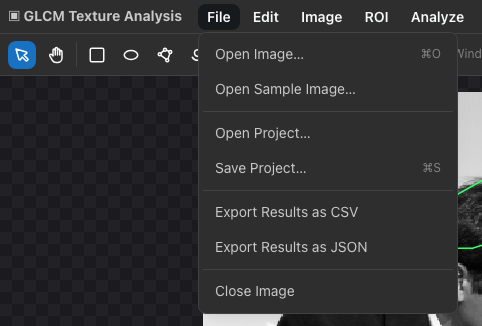
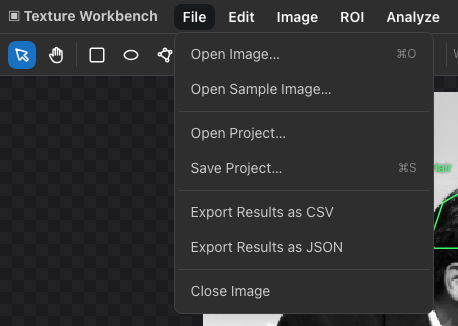
Rename the project to Texture Workbench
The repository is now markccchiang/texture-workbench. The app's title bar,
About dialog and browser tab, the OpenAPI title, the README, the Sphinx site
and the architecture diagram say Texture Workbench, and the README and About
text describe every feature family. The Docker image, the root npm package and
the CMake project are named texture-workbench; screenshots are regenerated.

Internal names stay: the glcm namespace and glcm_core, the @glcm packages and
GLCM_* variables, the Compose service and glcm-data volume, and the local data
folder ~/.glcm-texture-analysis, so stored images and results are still found.

Claude-Session: https://claude.ai/code/session_01PbGtFUgumc4WCXmBcb7ysQ

diff --git a/web/src/components/Modals.tsx b/web/src/components/Modals.tsx
@@ -301,7 +301,10 @@ function AboutContent() {
   });
   return (
     <Stack gap="xs">
-      <Text size="sm">Haralick GLCM texture features for regions of interest in grayscale images.</Text>
+      <Text size="sm">
+        Texture features of regions of interest in grayscale images: co-occurrence (Haralick) features, first-order statistics,
+        GLRLM, GLSZM, NGTDM and LBP.
+      </Text>
       <InfoRows rows={[['Core version', health.data?.coreVersion ?? '…']]} />
       <Text size="xs" c="dimmed">
         Feature equations and references are in the Sphinx documentation (doc/).
@@ -463,7 +466,7 @@ const TITLES: Record<ModalName, string> = {
   imageInfo: 'Image Info',
   preferences: 'Preferences',
   shortcuts: 'Keyboard Shortcuts',
-  about: 'About GLCM Texture Analysis',
+  about: 'About Texture Workbench',
   samples: 'Open Sample Image',
   saveProject: 'Save Project',
   exportRoiImages: 'Export ROI Images',

diff --git a/server/src/config.ts b/server/src/config.ts
@@ -116,6 +116,7 @@ export function loadConfig(env: NodeJS.ProcessEnv = process.env): ServerConfig {
   const host = env.GLCM_HOST || DEFAULT_CONFIG.host;
   const mode = serverMode({ host });
   const defaults: Defaults = mode === 'server' ? { ...DEFAULT_CONFIG, ...SERVER_MODE_DEFAULTS } : DEFAULT_CONFIG;
+  // The local folder keeps the project's former name, so images and results stored before the rename are still found
   const defaultDataDir = mode === 'server' ? '/data' : path.join(os.homedir(), '.glcm-texture-analysis');
 
   return {

diff --git a/server/src/app.ts b/server/src/app.ts
@@ -58,8 +58,8 @@ export async function buildApp(config: ServerConfig, options: BuildAppOptions = 
     openapi: {
       openapi: '3.1.0',
       info: {
-        title: 'GLCM Texture Analysis API',
-        description: 'HTTP API of the GLCM texture analysis server (doc/ui-design-plan.md, section 8.5).',
+        title: 'Texture Workbench API',
+        description: 'HTTP API of the Texture Workbench server (doc/ui-design-plan.md, section 8.5).',
         version: native.coreVersion(),
       },
       components: {

diff --git a/web/src/components/MenuBar.tsx b/web/src/components/MenuBar.tsx
@@ -69,7 +69,7 @@ export function MenuBar() {
   return (
     <nav className="menu-bar" aria-label="Main menu">
       <Text fw={700} size="sm" mr="sm">
-        ▣ GLCM Texture Analysis
+        ▣ Texture Workbench
       </Text>
 
       <TopMenu label="File">

diff --git a/web/index.html b/web/index.html
@@ -3,7 +3,7 @@
   <head>
     <meta charset="UTF-8" />
     <meta name="viewport" content="width=device-width, initial-scale=1.0" />
-    <title>GLCM Texture Analysis</title>
+    <title>Texture Workbench</title>
   </head>
   <body>
     <div id="root"></div>

diff --git a/doc/conf.py b/doc/conf.py
@@ -1,7 +1,7 @@
-# Sphinx configuration for the GLCM Texture Analysis documentation.
+# Sphinx configuration for the Texture Workbench documentation.
 # Build with `make html` in this folder (see requirements.txt).
 
-project = "GLCM Texture Analysis"
+project = "Texture Workbench"
 author = "Cheng-Chin Chiang"
 copyright = "2026, Cheng-Chin Chiang"
 

diff --git a/README.md b/README.md
@@ -1,11 +1,11 @@
-# GLCM Texture Analysis
+# Texture Workbench
 
-Computes Haralick texture features from the Gray Level Co-occurrence Matrix (GLCM) of regions of interest (ROIs) in grayscale images.
+Measures texture features of regions of interest (ROIs) in grayscale images: Haralick features from the Gray Level Co-occurrence Matrix (GLCM), first-order statistics, and run length (GLRLM), size zone (GLSZM), neighbourhood gray tone difference (NGTDM) and local binary pattern (LBP) features.
 
-Open an 8- or 16-bit image in the browser, draw rectangle, ellipse, polygon or freehand ROIs, choose the features and GLCM settings (gray levels, quantization, distances, directions), and measure. Results appear in a table, per direction and aggregated, optionally with an age-based score.
+Open an 8- or 16-bit image in the browser, draw rectangle, ellipse, polygon or freehand ROIs, choose the features and analysis settings (gray levels, quantization, distances, directions), and measure, one image or a batch. Results appear in a table and as plots, per direction and aggregated, optionally with an age-based score.
 
 <p align="center">
-  <img src="doc/user/images/app-window.png" alt="The GLCM Texture Analysis web app: the sample image with four ROIs (Sky, Coat, Grass, Hair) on the canvas, the ROI Manager with their pixel counts, the Analysis Settings panel, and the Results table with texture features per direction." width="900">
+  <img src="doc/user/images/app-window.png" alt="The Texture Workbench web app: the sample image with four ROIs (Sky, Coat, Grass, Hair) on the canvas, the ROI Manager with their pixel counts, the Analysis Settings panel, and the Results table with texture features per direction." width="900">
 </p>
 
 The User guide of the documentation (`doc/user/`) explains every part of the window.
@@ -250,7 +250,7 @@ To rebuild later, activate the environment again with `source .venv/bin/activate
 
 ## License
 
-GLCM Texture Analysis is free and open-source software, released under the [MIT License](LICENSE). You may use, copy, modify and distribute it, including in commercial and closed-source software, as long as the copyright notice and the license text are kept.
+Texture Workbench is free and open-source software, released under the [MIT License](LICENSE). You may use, copy, modify and distribute it, including in commercial and closed-source software, as long as the copyright notice and the license text are kept.
 
 Exceptions:
 - **Sample images from other sources:** the images in `samples/textures/` come from scikit-image (CC0 or no known copyright restrictions), and those in `samples/medical/` from The Cancer Imaging Archive (CC BY 3.0 and CC BY 4.0, with required citations) and OpenNeuro (CC0). They keep their own licenses. See [`samples/README.md`](samples/README.md).

diff --git a/doc/deployment.md b/doc/deployment.md
@@ -1,6 +1,6 @@
 # Server deployment
 
-This guide runs the GLCM texture analysis server for several users, as in phase 5 of `doc/ui-design-plan.md`. For personal use on your own computer, `npm start` (local mode) is enough; see the README.
+This guide runs the Texture Workbench server for several users, as in phase 5 of `doc/ui-design-plan.md`. For personal use on your own computer, `npm start` (local mode) is enough; see the README.
 
 ## Local mode and server mode
 
@@ -32,8 +32,8 @@ docker compose logs -f glcm
 Or without Compose:
 
 ```bash
-docker build -t glcm-texture-analysis .
-docker run -d --name glcm -p 127.0.0.1:8080:8080 -v glcm-data:/data -e GLCM_API_TOKEN glcm-texture-analysis
+docker build -t texture-workbench .
+docker run -d --name glcm -p 127.0.0.1:8080:8080 -v glcm-data:/data -e GLCM_API_TOKEN texture-workbench
 node scripts/smoke-test.mjs http://127.0.0.1:8080   # uses GLCM_API_TOKEN from the environment
 ```
 

diff --git a/doc/index.rst b/doc/index.rst
@@ -1,7 +1,7 @@
-GLCM Texture Analysis
-=====================
+Texture Workbench
+=================
 
-GLCM Texture Analysis computes texture features of regions of interest (ROIs) in 8- and 16-bit grayscale images: Haralick
+Texture Workbench computes texture features of regions of interest (ROIs) in 8- and 16-bit grayscale images: Haralick
 features from the Gray Level Co-occurrence Matrix (GLCM), first-order statistics, and run length (GLRLM), size zone
 (GLSZM), neighbourhood gray tone difference (NGTDM) and local binary pattern (LBP) features. Users open an image in the
 browser, draw rectangle, ellipse, polygon or freehand ROIs, choose the features and analysis settings, measure, and

diff --git a/doc/user/index.rst b/doc/user/index.rst
@@ -3,7 +3,7 @@
 User guide
 ==========
 
-GLCM Texture Analysis measures the texture of regions in grayscale images. A typical session has five steps:
+Texture Workbench measures the texture of regions in grayscale images. A typical session has five steps:
 
 #. **Open an image** — PNG, JPEG, BMP or TIFF, 8 or 16 bits per pixel (:ref:`getting-started`).
 #. **Look at it** — zoom, pan and adjust the display window to see the structures you want to measure
